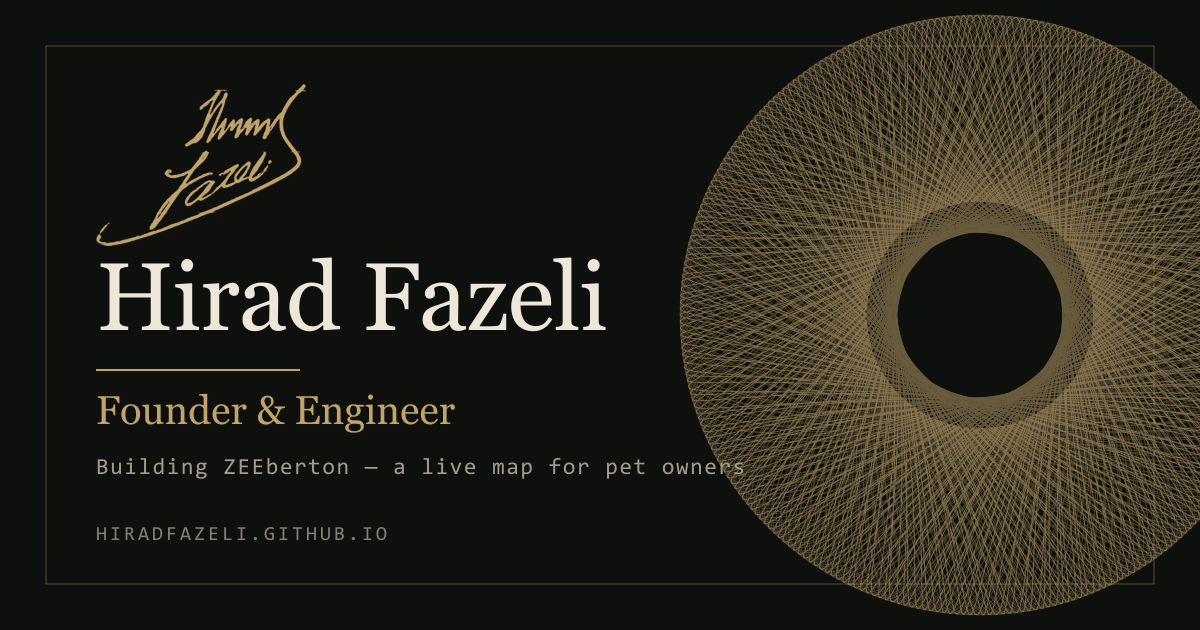
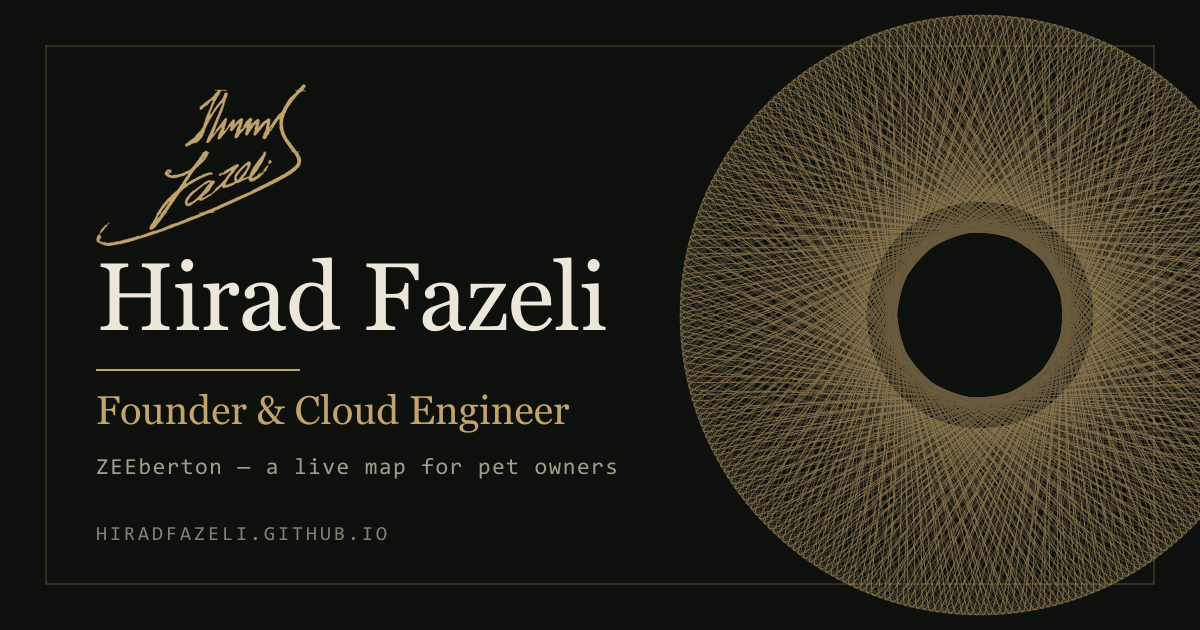
Reframe role as founder rather than developer
The skills section no longer claims software engineering, so the copy that
said he personally builds the app no longer matched it. Owner chose the
founder/product framing.

- jobTitle "Founder & Developer, ZEEberton" -> "Founder, ZEEberton";
  headline "Founder & Engineer" -> "Founder & Cloud Engineer", qualified so
  it reads as infrastructure rather than implying he writes the app
- Hero "I build ZEEberton" -> "I run ZEEberton"; "I design, build and run it
  solo" -> "I run it solo — product, launch, partnerships"
- CV role title "Founder & Developer" -> "Founder"; bullet now reads roadmap,
  design direction, release schedule, support and operations
- About: the "software I had deliberately taught myself" line replaced with
  the MBA and the wish to run something of his own; "building ... entirely on
  my own" -> "run ... single-handed"
- Case study: "built, shipped and run solo" -> "founded and run solo";
  "Building and shipping it" -> "Shipping it"; role "Founder"
- Titles, descriptions, share card, manifest and readme follow

Favicon deliberately left as the HF disc: a signature is illegible at 16px.

Changed region(s): [[0.0617, 0.7238, 0.6167, 0.754], [0.2467, 0.6032, 0.4933, 0.6937]]

diff --git a/src/data/profile.ts b/src/data/profile.ts
@@ -26,15 +26,20 @@ export const SITE = {
 
 export const PERSON = {
   name: 'Hirad Fazeli',
-  /** Leads with what he does now; the certification is the credibility layer. */
-  headline: 'Founder & Engineer',
-  jobTitle: 'Founder & Developer, ZEEberton',
-  tagline: 'I build ZEEberton — a live map for pet owners.',
+  /**
+   * Leads with what he does now; the certification is the credibility layer.
+   * "Cloud Engineer" rather than a bare "Engineer" on purpose — his engineering
+   * is infrastructure and networking, and the unqualified word alongside
+   * ZEEberton would imply he writes the app himself.
+   */
+  headline: 'Founder & Cloud Engineer',
+  jobTitle: 'Founder, ZEEberton',
+  tagline: 'I run ZEEberton — a live map for pet owners.',
   summary:
-    'Founder and developer of ZEEberton, a map-first social network for pet owners that I design, build and run solo — from the product itself to how it reaches people. Before that, six years in network operations and infrastructure across Iran and Georgia, and a Microsoft Certified Azure Administrator (AZ-104).',
+    'Founder of ZEEberton, a map-first social network for pet owners that I run end to end on my own — product direction, releases, launch and partnerships. Before that, six years in network operations and infrastructure across Iran and Georgia, and a Microsoft Certified Azure Administrator (AZ-104).',
   /** Short form for meta descriptions and OG cards. Keep under ~155 characters. */
   metaSummary:
-    'Founder & developer of ZEEberton, a live map for pet owners. Microsoft Certified Azure Administrator (AZ-104) with 6+ years in network operations.',
+    'Founder of ZEEberton, a live map for pet owners. Microsoft Certified Azure Administrator (AZ-104) with 6+ years in network operations.',
   email: 'hiradfazeli@zeeberton.com',
   location: {
     city: 'Yerevan',
@@ -98,7 +103,7 @@ export type Role = {
 
 export const EXPERIENCE: Role[] = [
   {
-    title: 'Founder & Developer',
+    title: 'Founder',
     org: 'ZEEberton',
     location: 'Yerevan, Armenia',
     start: 'May 2026',
@@ -107,7 +112,7 @@ export const EXPERIENCE: Role[] = [
     current: true,
     points: [
       'Founded and run a map-first social network for pet owners — a live map that helps neighbours meet for walks and playdates, form packs, and raise lost-pet alerts.',
-      'Own the product end to end as a single-person team: design, build, release, support, and everything running behind it.',
+      'Own the product end to end as a single-person team — roadmap, design direction, release schedule, support and day-to-day operations.',
       'Launched on Google Play and localised into multiple languages for an international audience.',
       'Run go-to-market directly — positioning, store presence, pricing, and partnerships with vets, groomers and pet businesses.',
     ],
@@ -225,9 +230,9 @@ export const PROJECTS: Project[] = [
     index: '01',
     name: 'ZEEberton',
     period: '2026 — Present',
-    role: 'Founder & sole developer',
+    role: 'Founder',
     blurb:
-      'A map-first social network that puts dog and cat owners on a live map so they can plan walks, form packs and catch lost-pet alerts in their neighbourhood. Founded, built and run solo.',
+      'A map-first social network that puts dog and cat owners on a live map so they can plan walks, form packs and catch lost-pet alerts in their neighbourhood. Founded and run solo.',
     tags: ['Consumer product', 'Mobile app', 'Community', 'Partnerships', 'Multilingual'],
     href: 'https://zeeberton.com',
     caseStudy: '/work/zeeberton/',

diff --git a/readme.md b/readme.md
@@ -1,6 +1,6 @@
 # hiradfazeli.github.io
 
-Personal site of **Hirad Fazeli** — founder & engineer, building [ZEEberton](https://zeeberton.com).
+Personal site of **Hirad Fazeli** — founder of [ZEEberton](https://zeeberton.com), Microsoft Certified Azure Administrator.
 
 Live at **<https://hiradfazeli.github.io>**.
 
